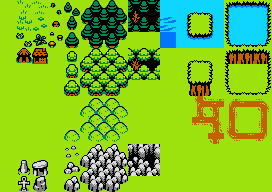
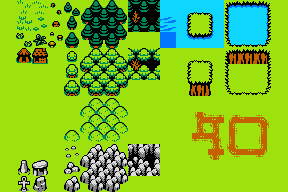
随机世界的渲染

diff --git a/game/src/CellMap.ts b/game/src/CellMap.ts
@@ -36,14 +36,62 @@ class CellMap extends egret.Sprite {
 
     public addCell(x: number, y: number) {
         let cellDate = this.getCellDate(x, y);
-        let renderType = 0;
-        let downData = this.getCellDate(x, y+1);
-        let upData = this.getCellDate(x, y-1);
-        if(cellDate ==1 &&
-            (downData == 0 || upData == 0)){
-            renderType = 1;
+        let cell: Cell;
+        if(cellDate == 0){
+            cell = Cell.getByType("n");
+        }else if (cellDate == 1) {
+            let renderType;
+            let upData = this.getCellDate(x, y - 1);
+            let downData = this.getCellDate(x, y + 1);
+            let leftData = this.getCellDate(x - 1, y);
+            let rightData = this.getCellDate(x + 1, y);
+
+            let ulData = this.getCellDate(x-1, y - 1);
+            let urData = this.getCellDate(x+1, y - 1);
+            let dlData = this.getCellDate(x - 1, y+1);
+            let drData = this.getCellDate(x + 1, y+1);
+
+
+            if (upData == 0 && downData == 0 && leftData == 0 && rightData == 0) {
+                renderType = "hs";
+            } else if (upData == 1 && downData == 0 && leftData == 0 && rightData == 0) {
+                renderType = "hds";
+            } else if (upData == 0 && downData == 1 && leftData == 0 && rightData == 0) {
+                renderType = "hus";
+            } else if (upData == 0 && downData == 0 && leftData == 1 && rightData == 0) {
+                renderType = "hrs";
+            } else if (upData == 0 && downData == 0 && leftData == 0 && rightData == 1) {
+                renderType = "hls";
+            } else if (upData == 1 && downData == 1 && leftData == 0 && rightData == 0) {
+                renderType = "hlr";
+            } else if (upData == 1 && downData == 0 && leftData == 1 && rightData == 0) {
+                renderType = "hdr";
+            } else if (upData == 1 && downData == 0 && leftData == 0 && rightData == 1) {
+                renderType = "hdl";
+            } else if (upData == 0 && downData == 1 && leftData == 1 && rightData == 0) {
+                renderType = "hur";
+            } else if (upData == 0 && downData == 1 && leftData == 0 && rightData == 1) {
+                renderType = "hul";
+            } else if (upData == 0 && downData == 0 && leftData == 1 && rightData == 1) {
+                renderType = "hud";
+            } else if (upData == 1 && downData == 1 && leftData == 1 && rightData == 0) {
+                renderType = "hr";
+            } else if (upData == 1 && downData == 1 && leftData == 0 && rightData == 1) {
+                renderType = "hl";
+            } else if (upData == 1 && downData == 0 && leftData == 1 && rightData == 1) {
+                renderType = "hd";
+            } else if (upData == 0 && downData == 1 && leftData == 1 && rightData == 1) {
+                renderType = "hu";
+            }
+            if(renderType){
+                cell = Cell.getByType(renderType);
+            }else{
+                cell = Cell.getByCorner(ulData,urData,dlData,drData);
+            }
         }
-        let cell: Cell = Cell.getByType(renderType);
+
+
+
         cell.x = x * CellMap.CELL_SIZE;
         cell.y = y * CellMap.CELL_SIZE;
         this.cellCache[x + "," + y] = cell;
@@ -94,8 +142,8 @@ class CellMap extends egret.Sprite {
         }
 
         //移动地图到中心,后期会改为以人物为中心
-        this.x = 400 - tx * CellMap.CELL_SIZE * CellMap.TRUNK_SIZE * Main.SCALE;
-        this.y = 300 - ty * CellMap.CELL_SIZE * CellMap.TRUNK_SIZE * Main.SCALE;
+        this.x = 300 - tx * CellMap.CELL_SIZE * CellMap.TRUNK_SIZE * Main.SCALE;
+        this.y = 200 - ty * CellMap.CELL_SIZE * CellMap.TRUNK_SIZE * Main.SCALE;
         //回收外圈资源
         for (let sy = ty - CellMap.RENDER_RANGE - 1; sy <= ty + CellMap.RENDER_RANGE + 1; sy++) {
             for (let sx = tx - CellMap.RENDER_RANGE - 1; sx <= tx + CellMap.RENDER_RANGE + 1; sx++) {
@@ -215,19 +263,16 @@ class CellMap extends egret.Sprite {
 
 class CellUnit extends egret.Bitmap {
     private imgRes: egret.SpriteSheet = RES.getRes("grass_json");
-    private imgArray: egret.Texture[] = [this.imgRes.getTexture("green"), this.imgRes.getTexture("rock")];
 
-    constructor(idx: number) {
+    constructor(tex: string) {
         super();
-        this.texture = this.imgArray[idx];
+        this.texture = this.imgRes.getTexture(tex);
     }
 }
 
 class Cell extends egret.Sprite {
-    public static BLANK: Cell;
-    public static PLAT: Cell;
 
-    constructor(cu1: number, cu2: number, cu3: number, cu4: number) {
+    constructor(cu1: string, cu2: string, cu3: string, cu4: string) {
         super();
         let cellUnit1 = new CellUnit(cu1);
         this.addChild(cellUnit1);
@@ -244,19 +289,44 @@ class Cell extends egret.Sprite {
         this.addChild(cellUnit4);
     }
 
-    public static getByType(type: number): Cell {
-        if (!Cell.BLANK) {
-            Cell.BLANK = new Cell(0, 0, 0, 0);
-        }
-        if (!Cell.PLAT) {
-            Cell.PLAT = new Cell(0, 0, 1, 1);
-        }
+    public static getByType(type: string): Cell {
         switch (type) {
-            case 1:
-                return new Cell(0, 0, 1, 1);
+            case "hs":
+                return new Cell("n", "n", "hd", "hd");
+            case "hd":
+                return new Cell("n", "n", "hd", "hd");
+            case "hds":
+                return new Cell("hl", "hr", "hdl", "hdr");
+            case "hdl":
+                return new Cell("hl", "n", "hdl", "hd");
+            case "hdr":
+                return new Cell("n", "hr", "hd", "hdr");
+            case "hu":
+                return new Cell("hu", "hu", "n", "n");
+            case "hus":
+                return new Cell("hul", "hur", "hl", "hr");
+            case "hul":
+                return new Cell("hul", "hu", "hl", "n");
+            case "hur":
+                return new Cell("hu", "hur", "n", "hr");
+            case "hl":
+                return new Cell("hl", "n", "hl", "n");
+            case "hr":
+                return new Cell("n", "hr", "n", "hr");
+            case "hls":
+                return new Cell("hul", "hu", "hdl", "hd");
+            case "hrs":
+                return new Cell("hu", "hur", "hd", "hdr");
+            case "hud":
+                return new Cell("hu", "hu", "hd", "hd");
+            case "hlr":
+                return new Cell("hl", "hr", "hl", "hr");
             default:
-                return new Cell(0, 0, 0, 0);
+                return new Cell("n", "n", "n", "n");
         }
+    }
+    public static getByCorner(ul,ur,dl,dr): Cell {
+         return new Cell(ul==0?"hul1":"n", ur==0?"hur1":"n", dl==0?"hdl1":"n", dr==0?"hdr1":"n");
     }
 }
 

diff --git a/game/src/Main.ts b/game/src/Main.ts
@@ -2,7 +2,7 @@
 
 class Main extends MainFrame {
     public static enemyArray:egret.Sprite[] = [];
-    public static SCALE=1;
+    public static SCALE = 1;
 
     public constructor() {
         super();
@@ -29,8 +29,8 @@ class Main extends MainFrame {
 
         cellMap.renderTrunks(0,0);
         this.addChild(cellMap);
-        cellMap.x = 400;
-        cellMap.y = 300;
+        cellMap.x = 300;
+        cellMap.y = 200;
         cellMap.scaleX = Main.SCALE;
         cellMap.scaleY = Main.SCALE;
 
